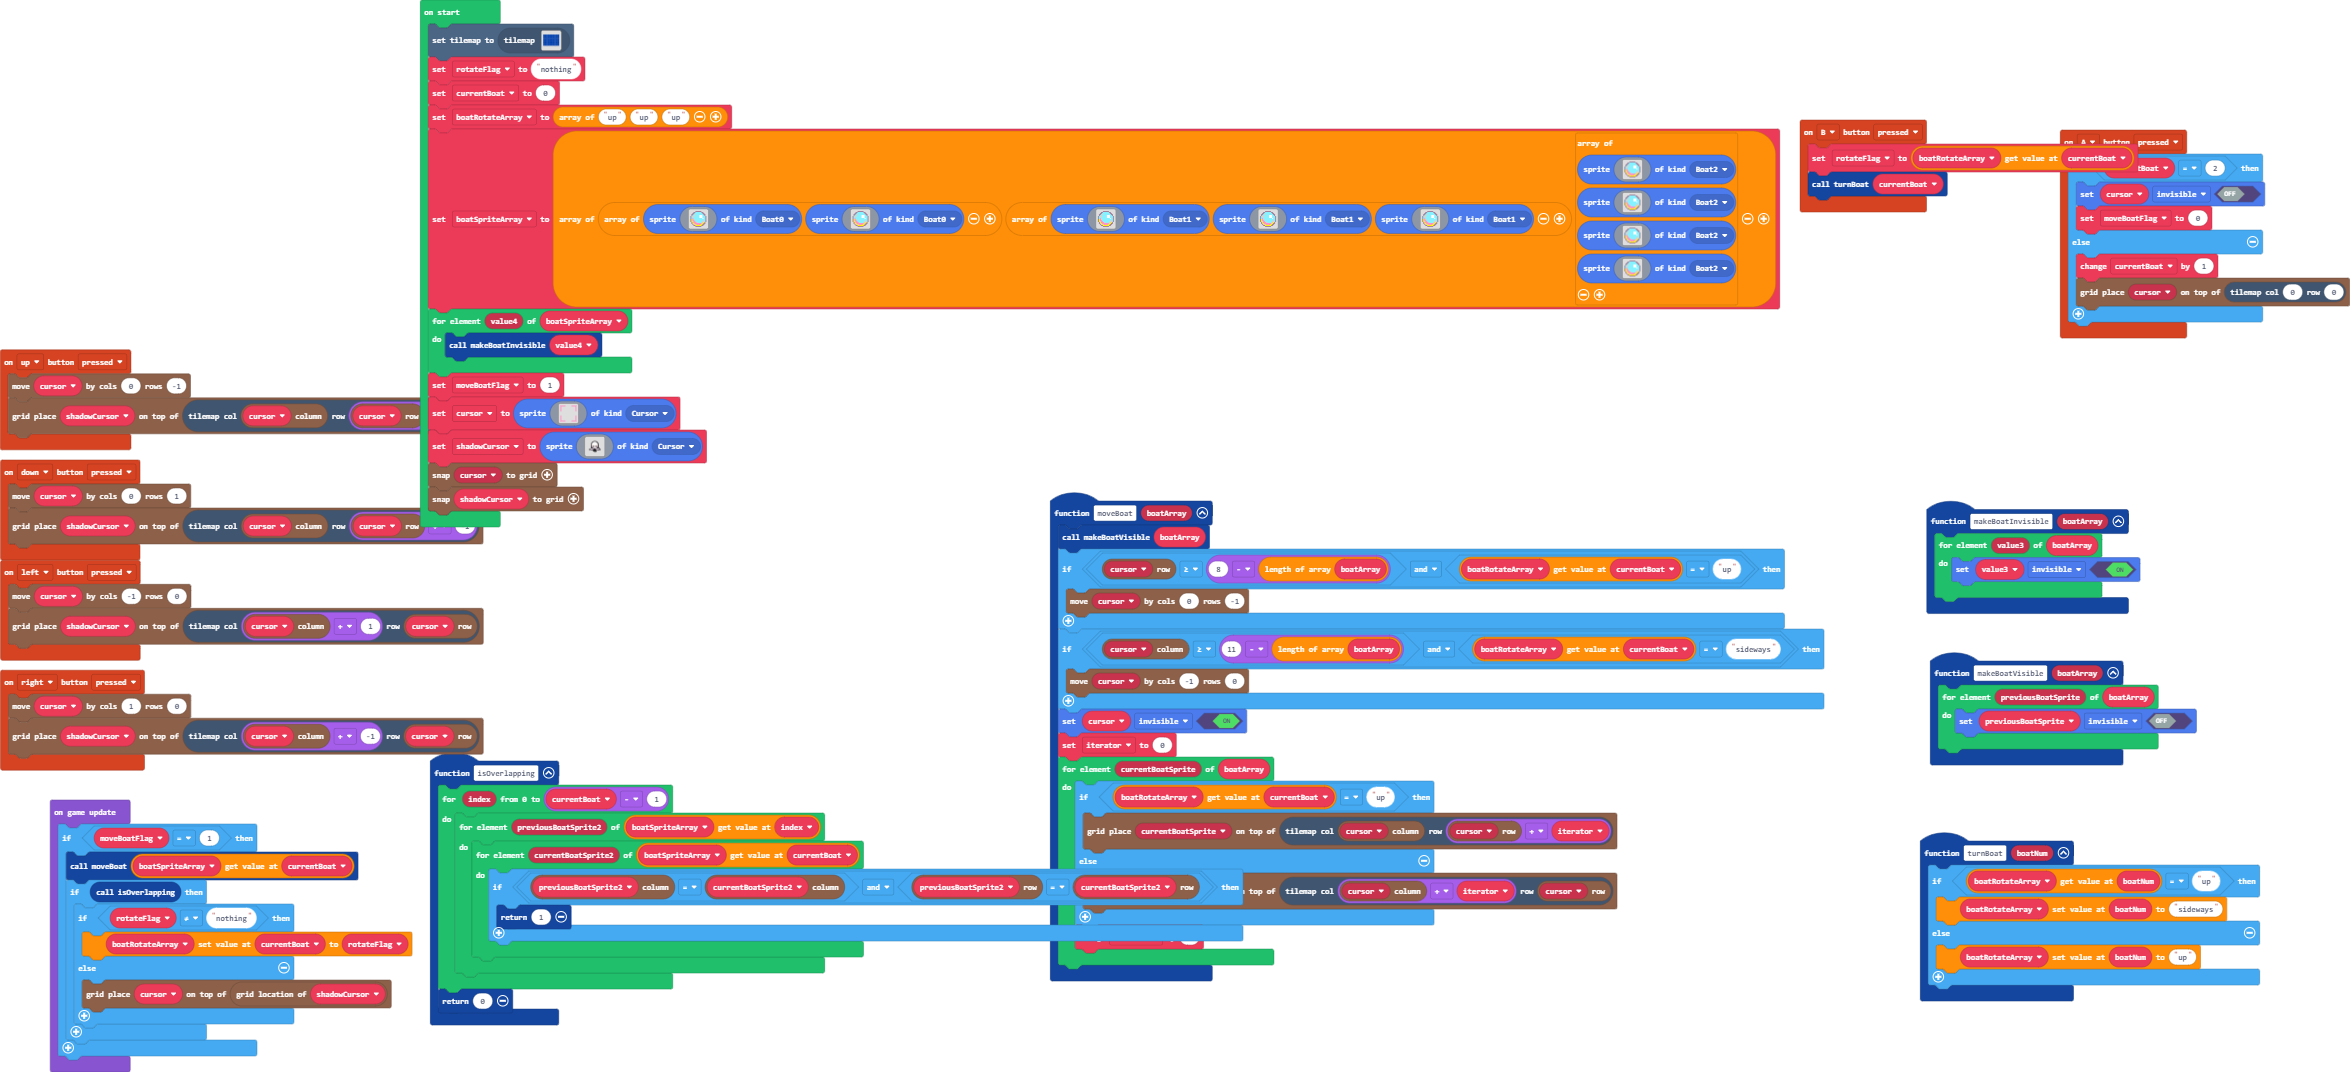
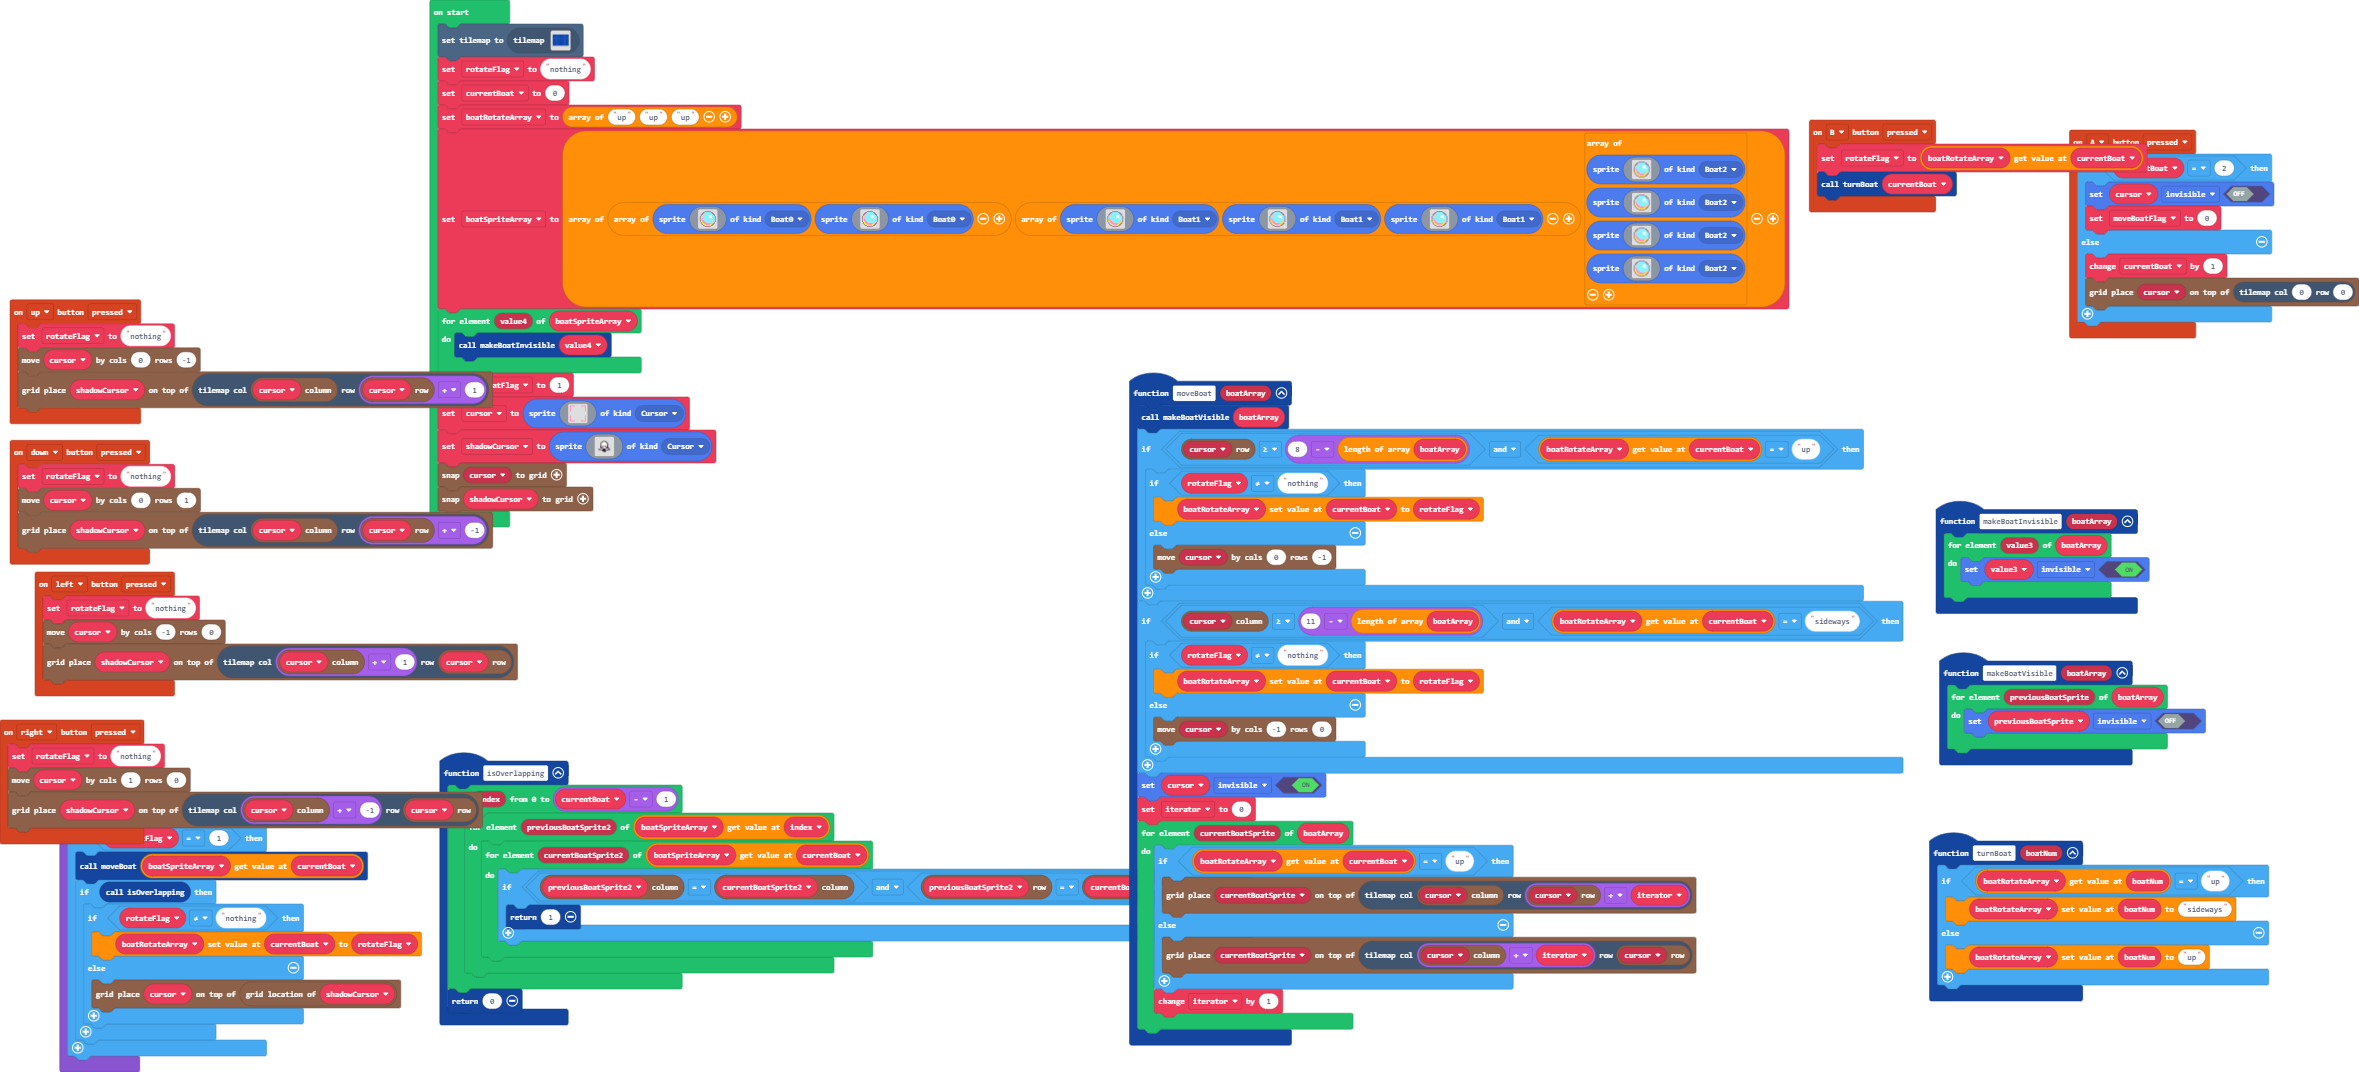
fixed rotate bug (bottom screen)

Changed region(s): [[0.0, 0.0, 0.9319, 1.0], [0.8077, 0.7696, 0.9009, 0.9235], [0.8077, 0.6157, 0.9319, 0.6772]]

diff --git a/main.ts b/main.ts
@@ -5,6 +5,7 @@ namespace SpriteKind {
     export const Boat2 = SpriteKind.create()
 }
 controller.up.onEvent(ControllerButtonEvent.Pressed, function () {
+    rotateFlag = "nothing"
     grid.move(cursor, 0, -1)
     grid.place(shadowCursor, tiles.getTileLocation(grid.spriteCol(cursor), grid.spriteRow(cursor) + 1))
 })
@@ -27,20 +28,30 @@ controller.A.onEvent(ControllerButtonEvent.Pressed, function () {
     }
 })
 controller.left.onEvent(ControllerButtonEvent.Pressed, function () {
+    rotateFlag = "nothing"
     grid.move(cursor, -1, 0)
     grid.place(shadowCursor, tiles.getTileLocation(grid.spriteCol(cursor) + 1, grid.spriteRow(cursor)))
 })
 controller.right.onEvent(ControllerButtonEvent.Pressed, function () {
+    rotateFlag = "nothing"
     grid.move(cursor, 1, 0)
     grid.place(shadowCursor, tiles.getTileLocation(grid.spriteCol(cursor) + -1, grid.spriteRow(cursor)))
 })
 function moveBoat (boatArray: any[]) {
     makeBoatVisible(boatArray)
     if (grid.spriteRow(cursor) >= 8 - boatArray.length && boatRotateArray[currentBoat] == "up") {
-        grid.move(cursor, 0, -1)
+        if (rotateFlag != "nothing") {
+            boatRotateArray[currentBoat] = rotateFlag
+        } else {
+            grid.move(cursor, 0, -1)
+        }
     }
     if (grid.spriteCol(cursor) >= 11 - boatArray.length && boatRotateArray[currentBoat] == "sideways") {
-        grid.move(cursor, -1, 0)
+        if (rotateFlag != "nothing") {
+            boatRotateArray[currentBoat] = rotateFlag
+        } else {
+            grid.move(cursor, -1, 0)
+        }
     }
     cursor.setFlag(SpriteFlag.Invisible, true)
     iterator = 0
@@ -54,6 +65,7 @@ function moveBoat (boatArray: any[]) {
     }
 }
 controller.down.onEvent(ControllerButtonEvent.Pressed, function () {
+    rotateFlag = "nothing"
     grid.move(cursor, 0, 1)
     grid.place(shadowCursor, tiles.getTileLocation(grid.spriteCol(cursor), grid.spriteRow(cursor) + -1))
 })
